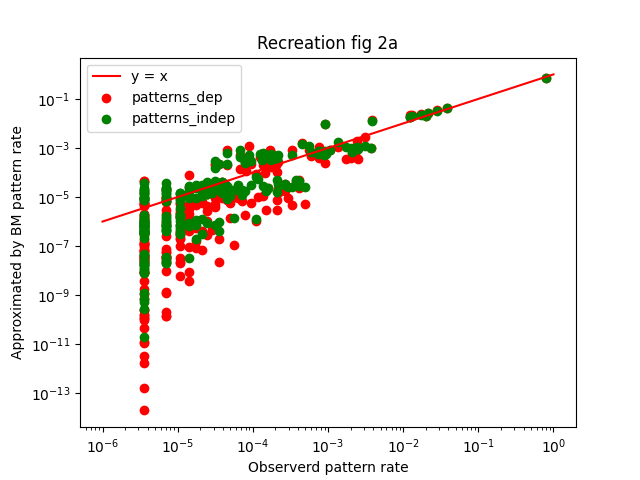
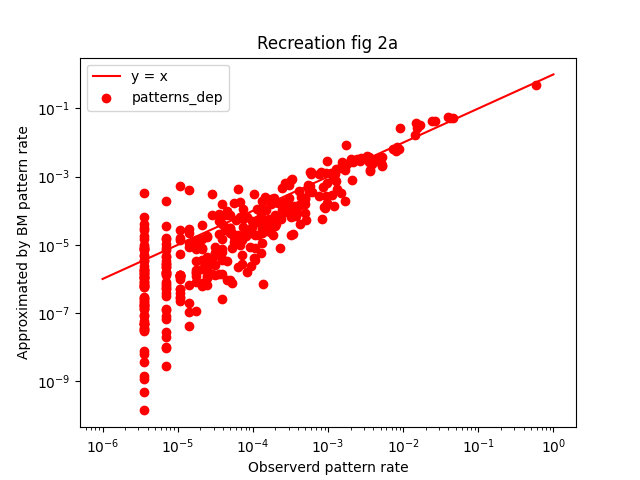
adding the old

diff --git a/Week 8/BM_EXACT_10_RANDOM_OLD.py b/Week 8/BM_EXACT_10_RANDOM_OLD.py
@@ -2,11 +2,9 @@ import numpy as np
 import matplotlib.pyplot as plt
 import argparse
 from mpl_toolkits.axes_grid1 import make_axes_locatable
-from BM_exact import BM_exact
+from BM_exact_old import BM_exact
 from itertools import product
 from collections import Counter
-from sys import platform 
-import os
 
 parser = argparse.ArgumentParser(description= 'Toy model BM')
 parser.add_argument('-N',type= int, default= 10, help='Size of the dataset; amount of random spins used')
@@ -26,24 +24,24 @@ def p_s_w(s ,w, theta, Z):
     return 1/Z * unnormalized_p(s,w,theta)
 
 
-# def likelihood(data,w,theta):
-#     nom = 0 
-#     Z = np.sum([unnormalized_p(point,w,theta) for point in data])
-#     for s in data:
-#         nom += 0.5*(np.dot(s,np.dot(w,s))) + np.dot(theta, s)
-#     return nom/len(data) - np.log(Z)
+def likelihood(data,w,theta):
+    nom = 0 
+    Z = np.sum([unnormalized_p(point,w,theta) for point in data])
+    for s in data:
+        nom += 0.5*(np.dot(s,np.dot(w,s))) + np.dot(theta, s)
+    return nom/len(data) - np.log(Z)
 
-# def clamped_statistics(data):
-#     single = 1/(len(data)) * np.sum(data, axis = 0)
-#     data_needed = np.array([np.outer(x,x) for x in data])
-#     double = 1/(len(data)) * np.sum(data_needed, axis = 0)
+def clamped_statistics(data):
+    single = 1/(len(data)) * np.sum(data, axis = 0)
+    data_needed = np.array([np.outer(x,x) for x in data])
+    double = 1/(len(data)) * np.sum(data_needed, axis = 0)
 
-#     return single, double
+    return single, double
 
-# def free_statistics(data, w, theta):
-#     single = np.sum(np.array([s * p_s_w(s,data,w,theta) for s in data]), axis = 0)
-#     double = np.sum(np.array([np.outer(s,s) * p_s_w(s,data,w,theta) for s in data]), axis = 0)
-#     return single, double
+def free_statistics(data, w, theta):
+    single = np.sum(np.array([s * p_s_w(s,data,w,theta) for s in data]), axis = 0)
+    double = np.sum(np.array([np.outer(s,s) * p_s_w(s,data,w,theta) for s in data]), axis = 0)
+    return single, double
 
 
 def main():
@@ -62,7 +60,6 @@ def main():
     #     point[point==0] = -1
     #     data[index] = point
     total_1 = np.sum(data)
-    print(total_1)
 
     # while total_1 < args.ones:
     #     print("Data is beign redrawn to avoid too many spikes with only zeros, for the sake of computation speed")
@@ -71,8 +68,6 @@ def main():
     data = data.transpose()
 
     w, theta, likelihood_chain, gradient_chain = BM_exact(data,len(data[0]), len(data), lr, threshold)
-
-    # _, theta_indep, _, _ = BM_exact(data, len(data[0]), len(data), lr, threshold, True)
 
     all_states = list(product(range(2), repeat = len(data[0])))
 
@@ -90,27 +85,16 @@ def main():
         observed_rate.append(observed_occ[tuple(i)]/len(full_data))
 
     Z = np.sum([unnormalized_p(np.array(s),w,theta) for s in all_states])
-
-    # Z_zeros = np.sum([unnormalized_p(np.array(s),np.zeros_like(w),theta_indep) for s in all_states])
     
     approximated_rate = [p_s_w(np.array(s), w, theta, Z) for s in new_data_set]
 
-    # approximated_rate_indep = [p_s_w(np.array(s), np.zeros_like(w), theta_indep, Z_zeros) for s in new_data_set]
-
-    plt.scatter(observed_rate, approximated_rate, label = "patterns_dep", color = "red")
-    # plt.scatter(observed_rate, approximated_rate_indep, label = "patterns_indep", color = "green")        
-    plt.plot([x for x in np.linspace(0.000001,1, 10000)],[x for x in np.linspace(0.000001,1, 10000)], color = "red", label = "y = x")
+    plt.scatter(observed_rate, approximated_rate, label = "patterns")
+    plt.plot([x for x in np.linspace(0.0001,1.2, 10000)],[x for x in np.linspace(0.0001,1.2, 10000)], color = "red", label = "y = x")
     plt.xlabel("Observerd pattern rate")
     plt.ylabel("Approximated by BM pattern rate")
     plt.xscale('log')
     plt.legend()
     plt.yscale('log')
-    plt.title("Recreation fig 2a")
-
-    if platform == "linux" or platform == "linux2" or platform == "darwin":
-        plt.savefig("./PLOTS/BM_EXACT_SALAMANDER_" + str(threshold) + ".png")
-    elif platform == "win32":
-        plt.savefig(".\\PLOTS\\BM_EXACT_SALAMANDER_" + str(threshold) + ".png")
     plt.show()
 
 
@@ -181,7 +165,5 @@ if __name__ == '__main__':
 
 
     
-
-
 
 

diff --git a/Week 8/BM_exact_old.py b/Week 8/BM_exact_old.py
@@ -37,63 +37,49 @@ def clamped_statistics(data):
     return single, double
 
 
-def free_statistics(w, theta, all_states, all_states_outer, w_zero = False):
+def free_statistics(w, theta, all_states, all_states_outer):
     p_s =  p_s_w(all_states, w, theta)
     single = np.sum([s * p for s, p in zip(all_states, p_s)], axis = 0)
-    if w_zero:
-        double = 3000
-    else:
-        double = np.sum([out * p for out, p in zip(all_states_outer, p_s)], axis = 0)
+    double = np.sum([out * p for out, p in zip(all_states_outer, p_s)], axis = 0)
     return single, double
 
 
-def BM_exact(data, NrofSpins, NrofData, lr, threshold, w_zero = False):
+def BM_exact(data, NrofSpins, NrofData, lr, threshold):
     #initialize w and theta randomly
-    if w_zero:
-        w = np.zeros((NrofSpins, NrofSpins))
-    else:
-        w = np.random.randn(NrofSpins, NrofSpins)
-        np.fill_diagonal(w,0.) 
+    w = np.random.randn(NrofSpins, NrofSpins)
+    np.fill_diagonal(w,0.) 
     theta = np.random.randn(NrofSpins)
 
     all_states = list(product(range(2), repeat = NrofSpins))
     all_states = [np.array(s) for s in all_states]
     all_states_outer = [np.outer(s,s) for s in all_states]
-    print(np.mean(w))
+
     likelihood_chain = [likelihood(w, theta, all_states, data)]
     gradient_chain = []
     i = 0
     single_clamped, double_clamped = clamped_statistics(data)
     
     while 1:
-        single_free, double_free = free_statistics(w, theta, all_states, all_states_outer, w_zero)
+        single_free, double_free = free_statistics(w, theta, all_states, all_states_outer)
         gradient_double = double_clamped - double_free
-        if w_zero:
-            w = np.zeros((NrofSpins, NrofSpins))
-        else:
-            w += lr * gradient_double
-            np.fill_diagonal(w, 0.)
+        w += lr * gradient_double
+        np.fill_diagonal(w, 0.)
         gradient_single = single_clamped - single_free
         theta += lr * gradient_single
 
         likelihood_chain.append(likelihood(w,theta, all_states, data))
         gradient_chain.append((np.mean(gradient_single), np.mean(gradient_double)))
-        
-        if w_zero:
-           if np.allclose(single_clamped, single_free, rtol=0, atol = threshold * 1/lr):
-               break
-        else:
-            if np.allclose(double_clamped, double_free, rtol=0, atol = threshold * 1/lr) and \
-            np.allclose(single_clamped, single_free, rtol=0, atol = threshold * 1/lr):
-                break
+
+        if np.allclose(double_clamped, double_free, rtol=0, atol = threshold * 1/lr) and \
+           np.allclose(single_clamped, single_free, rtol=0, atol = threshold * 1/lr):
+            break
         
         i += 1
         if i % 100 == 0:
             print("double: ",np.max(np.abs(double_clamped - double_free)))
             print("single: ",np.max(np.abs(single_clamped - single_free)))
             print(i)
-            
-    print(np.mean(w))
+
     return w, theta, likelihood_chain, gradient_chain
 
 
